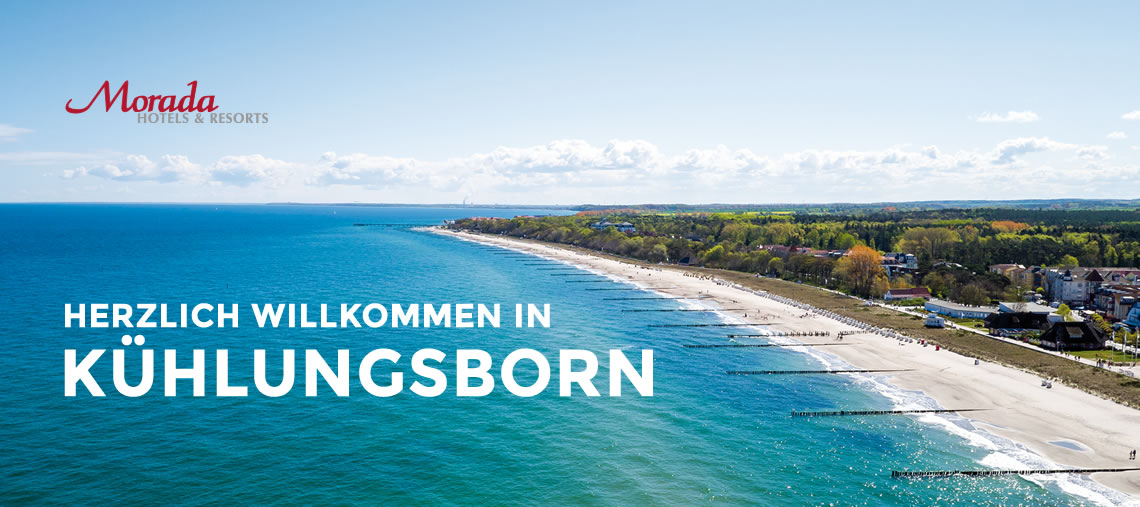
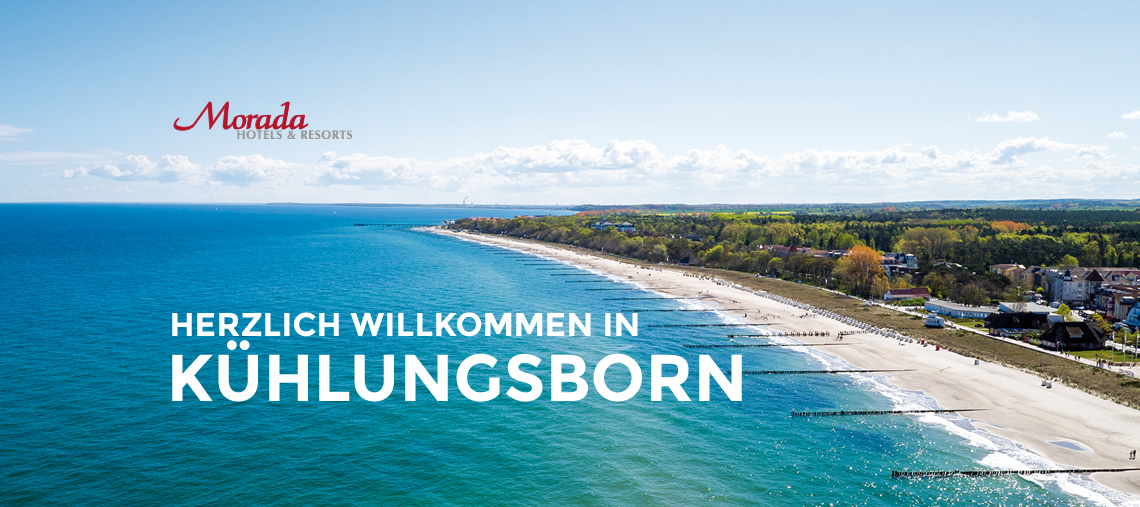
imaged edits
correct claim-position

Changed region(s): [[0.0307, 0.5917, 0.6754, 0.7988], [0.0614, 0.1479, 0.307, 0.2959]]

diff --git a/source/11/assets/css/style.css b/source/11/assets/css/style.css
@@ -215,11 +215,11 @@ input.gsc-input,
 @media (min-width: 1200px) {
 	.keyvisualsteadyhalf {
 		height: 550px;
-		background-image: url(../../images/hero/saunalagune_1900.jpg);
+		background-image: url(../../images/hero/kuehlungsborn_1900.jpg);
 	}
 	
 	#promotion {
-		background: url("../../images/hero/alphorn_1900.jpg") no-repeat fixed center center / cover rgba(0, 0, 0, 0);
+		background: url("../../images/hero/leuchtturm_1900.jpg") no-repeat fixed center center / cover rgba(0, 0, 0, 0);
 	}
 }
 
@@ -229,11 +229,11 @@ input.gsc-input,
 @media (min-width: 992px) and (max-width: 1199px) {
 	.keyvisualsteadyhalf {
 		height: 500px;
-		background-image: url(../../images/hero/saunalagune_1140.jpg);
+		background-image: url(../../images/hero/kuehlungsborn_1140.jpg);
 	}
 	
 	#promotion {
-		background: url("../../images/hero/alphorn_992.jpg") no-repeat fixed center center / cover rgba(0, 0, 0, 0);
+		background: url("../../images/hero/leuchtturm_992.jpg") no-repeat fixed center center / cover rgba(0, 0, 0, 0);
 	}
 }
 
@@ -243,11 +243,11 @@ input.gsc-input,
 @media (min-width: 768px) and (max-width: 991px) {
 	.keyvisualsteadyhalf {
 		height: 400px;
-		background-image: url(../../images/hero/saunalagune_991.jpg);
+		background-image: url(../../images/hero/kuehlungsborn_991.jpg);
 	}
 	
 	#promotion {
-		background: url("../../images/hero/alphorn_768.jpg") no-repeat fixed center center / cover rgba(0, 0, 0, 0);
+		background: url("../../images/hero/leuchtturm_768.jpg") no-repeat fixed center center / cover rgba(0, 0, 0, 0);
 	}
 }
 
@@ -257,7 +257,7 @@ input.gsc-input,
 @media (max-width: 767px) {
 	.keyvisualsteadyhalf {
 		height: 400px;
-		background-image: url(../../images/hero/saunalagune_767.jpg);
+		background-image: url(../../images/hero/kuehlungsborn_767.jpg);
 	}
 	
 	#promotion {
@@ -271,7 +271,7 @@ input.gsc-input,
 @media (max-width: 479px) {
 	.keyvisualsteadyhalf {
 		height: 360px;
-		background-image: url(../../images/hero/saunalagune_479.jpg);
+		background-image: url(../../images/hero/kuehlungsborn_479.jpg);
 	}
 	
 	.navbar-fixed-top .navbar-brand {
